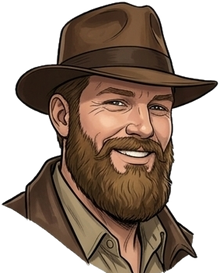
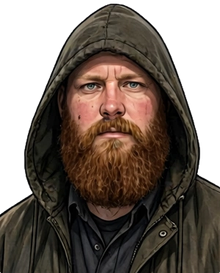
The Unfinished Journal: hero redrawn as The Archivist (hooded, Carter's face)
The painted fedora-and-leather-jacket explorer is replaced by parts cut from
Carter's approved hooded character sheet (art-source/archivist/, cut.py):
long charcoal-olive coat, hood up, scroll case on the back, boots. The face is
the sheet's own pixels, never redrawn. Story-card portraits come from the
sheet's front view; the sheet has one expression, so no smile is invented.
Raised-arm sleeve and hand now match the coat (sizes from the manifest).
Parts ship at half the sheet's resolution; cache version bumped to v=2.
Set pieces (whip, boulder) are unchanged and come in part 2.

Claude-Session: https://claude.ai/code/session_01FAAo7XY473oywLFz3iKTjM

diff --git a/docs/assets/games/treasure.js b/docs/assets/games/treasure.js
@@ -38,16 +38,16 @@
 
   var SCRIPT_DIR = (document.currentScript && document.currentScript.src.replace(/[^/]*$/, "")) || "assets/games/";
   var DATA_URL = SCRIPT_DIR + "data/treasure.json";
-  // the explorer: painted cut-out parts sliced from the character turnaround sheet
-  // (art-source/tomb-robber/), hinged at hip and knee so the legs actually run and tuck.
+  // the hero, "The Archivist": painted cut-out parts sliced from Carter's approved hooded character sheet
+  // (art-source/archivist/, cut by cut.py), hinged at hip and knee so the legs actually run and tuck.
   var ART_BASE = SCRIPT_DIR + "art/treasure/";
   var ART = { ready: false, man: null, img: {} };
   function loadArt() {
     if (ART.man) return;
     ART.man = {};
-    fetch(ART_BASE + "manifest.json?v=1").then(function (r) { return r.ok ? r.json() : null; }).then(function (m) {
+    fetch(ART_BASE + "manifest.json?v=2").then(function (r) { return r.ok ? r.json() : null; }).then(function (m) {
       if (!m) return; var names = ["body", "thigh", "shin"], left = names.length;
-      names.forEach(function (n) { var im = new Image(); im.onload = function () { ART.img[n] = im; if (--left === 0) { ART.man = m; ART.ready = true; } }; im.src = ART_BASE + n + ".png?v=1"; });
+      names.forEach(function (n) { var im = new Image(); im.onload = function () { ART.img[n] = im; if (--left === 0) { ART.man = m; ART.ready = true; } }; im.src = ART_BASE + n + ".png?v=2"; });
     }).catch(function () {});
   }
   var DATA = null, loadingPromise = null;
@@ -1486,15 +1486,16 @@
       leg(tB, kB, true);   // back leg recedes: a darkened copy made once (speed fix #4; a per-frame filter was costly)
       leg(tF, kF);
       cx.drawImage(I.body, -M.body.pivotX, -M.body.pivotY);
-      // the whip arm: a raised sleeve and fist while lashing or holding the rope
+      // the line arm: a raised coat sleeve and hand while casting or holding the rope (sizes from the manifest)
       var hand = null;
       if (p.whip || p.swing) {
-        var sh = { x: 12, y: -228 }, a = p.swing ? -1.75 : (p.whip.up ? -1.35 : -0.25 - (p.whip.t < 0.1 ? 1.1 * (1 - p.whip.t / 0.1) : 0));
-        var hx = sh.x + Math.cos(a) * 150, hy = sh.y + Math.sin(a) * 150;
-        cx.strokeStyle = "#3e2616"; cx.lineWidth = 50; cx.lineCap = "round"; cx.beginPath(); cx.moveTo(sh.x, sh.y); cx.lineTo(hx, hy); cx.stroke();
-        cx.strokeStyle = "#6a4428"; cx.lineWidth = 32; cx.beginPath(); cx.moveTo(sh.x, sh.y - 8); cx.lineTo(hx, hy - 8); cx.stroke();
-        cx.fillStyle = "#d9a57c"; cx.beginPath(); cx.arc(hx + Math.cos(a) * 20, hy + Math.sin(a) * 20, 24, 0, 7); cx.fill();
-        var m = cx.getTransform(), hp = new DOMPoint(hx + Math.cos(a) * 24, hy + Math.sin(a) * 24).matrixTransform(m);
+        var A = M.arm || { x: 12, y: -228, len: 150, w: 50, sleeve: "#3e2616", sleeveLight: "#6a4428", hand: "#d9a57c" }, u = M.figH / 662;
+        var sh = { x: A.x, y: A.y }, a = p.swing ? -1.75 : (p.whip.up ? -1.35 : -0.25 - (p.whip.t < 0.1 ? 1.1 * (1 - p.whip.t / 0.1) : 0));
+        var hx = sh.x + Math.cos(a) * A.len, hy = sh.y + Math.sin(a) * A.len;
+        cx.strokeStyle = A.sleeve; cx.lineWidth = A.w; cx.lineCap = "round"; cx.beginPath(); cx.moveTo(sh.x, sh.y); cx.lineTo(hx, hy); cx.stroke();
+        cx.strokeStyle = A.sleeveLight; cx.lineWidth = A.w * 0.64; cx.beginPath(); cx.moveTo(sh.x, sh.y - 8 * u); cx.lineTo(hx, hy - 8 * u); cx.stroke();
+        cx.fillStyle = A.hand; cx.beginPath(); cx.arc(hx + Math.cos(a) * 20 * u, hy + Math.sin(a) * 20 * u, 24 * u, 0, 7); cx.fill();
+        var m = cx.getTransform(), hp = new DOMPoint(hx + Math.cos(a) * 24 * u, hy + Math.sin(a) * 24 * u).matrixTransform(m);
         hand = { x: hp.x / DPR + st.drawCam, y: hp.y / DPR - st.drawCamY };
       }
       p.hand = hand;
@@ -1505,9 +1506,9 @@
       var leg = p.onGround && Math.abs(p.vx) > 0.4 ? Math.sin(p.run) * 4 : 0;
       cx.strokeStyle = "#2a1c10"; cx.lineWidth = 4; cx.lineCap = "round";
       cx.beginPath(); cx.moveTo(-1, 4); cx.lineTo(-3, 11 + leg); cx.moveTo(1, 4); cx.lineTo(3, 11 - leg); cx.stroke();
-      cx.fillStyle = "#6a4428"; cx.fillRect(-6, -6, 12, 12);
-      cx.fillStyle = "#d8ab6e"; cx.beginPath(); cx.arc(0, -11, 5, 0, 7); cx.fill();
-      cx.fillStyle = "#5a3a1a"; cx.beginPath(); cx.ellipse(0, -14, 8, 3, 0, 0, 7); cx.fill(); cx.fillRect(-4, -16, 8, 3);
+      cx.fillStyle = "#2b2b23"; cx.fillRect(-6, -6, 12, 14);                         // long coat
+      cx.fillStyle = "#2b2b23"; cx.beginPath(); cx.arc(0, -11, 6.5, 0, 7); cx.fill();  // hood up
+      cx.fillStyle = "#d8ab6e"; cx.beginPath(); cx.arc(2, -10.5, 3.6, 0, 7); cx.fill(); // face in the hood
       cx.restore(); p.hand = null;
     }
     function drawWhip() {
@@ -1624,7 +1625,7 @@
       return '<ul class="ouro-facts">' + items + "</ul>";
     }
     function portrait(smile) {
-      return '<img class="tr-portrait" src="' + ART_BASE + (smile ? "portrait-smile" : "portrait") + '.png?v=1" alt="" width="220" height="273">';
+      return '<img class="tr-portrait" src="' + ART_BASE + (smile ? "portrait-smile" : "portrait") + '.png?v=2" alt="" width="220" height="273">';
     }
     function storyCard(opts) {
       stopLoop();

diff --git a/art-source/archivist/cut.py b/art-source/archivist/cut.py
@@ -1,0 +1,120 @@
+#!/usr/bin/env python3
+"""Cut The Unfinished Journal hero ("The Archivist") into the game's painted parts.
+
+Source: character-sheet-archivist-hooded.webp (approved by Carter 2026-10-21; face from his own selfie,
+hood up). Output: docs/assets/games/art/treasure/{body,thigh,shin,portrait,portrait-smile}.png + manifest.json.
+
+Run from the repo root:  python3 art-source/archivist/cut.py
+Needs Pillow, numpy, scipy. Re-running gives the same files.
+
+The side view (left figure on the sheet) faces left; the game's parts face right, so they are mirrored.
+Coordinates below are in sheet pixels. The hero's face is never redrawn: every pixel of it comes from the sheet.
+"""
+import json, os
+import numpy as np
+from PIL import Image
+from scipy import ndimage
+
+HERE = os.path.dirname(os.path.abspath(__file__))
+ROOT = os.path.abspath(os.path.join(HERE, "..", ".."))
+OUT = os.path.join(ROOT, "docs", "assets", "games", "art", "treasure")
+SHEET = Image.open(os.path.join(HERE, "character-sheet-archivist-hooded.webp")).convert("RGB")
+
+
+def cutout(box):
+    """Crop a box and make the paper and grid lines transparent: flood-fill light, grey pixels from the edge."""
+    im = SHEET.crop(box)
+    a = np.asarray(im).astype(int)
+    mx, mn = a.max(2), a.min(2)
+    light = (mn > 150) & (mx - mn < 28)                 # paper white and the grey grid; the figure is outlined in black
+    lab, _ = ndimage.label(light)
+    edge = set(np.unique(np.concatenate([lab[0], lab[-1], lab[:, 0], lab[:, -1]]))) - {0}
+    bg = np.isin(lab, list(edge))
+    fg = ndimage.binary_opening(~bg, iterations=1)     # drop stray grid specks
+    lab2, n = ndimage.label(fg)
+    if n > 1:                                           # keep only pieces of a useful size
+        sizes = ndimage.sum(fg, lab2, range(1, n + 1))
+        keep = [i + 1 for i, s in enumerate(sizes) if s > 400]
+        fg = np.isin(lab2, keep)
+    alpha = ndimage.gaussian_filter(fg.astype(float), 0.6)   # soft one-pixel edge
+    rgba = np.dstack([a, (np.clip(alpha, 0, 1) * 255)]).astype(np.uint8)
+    return rgba
+
+
+def save(rgba, name):
+    Image.fromarray(rgba).save(os.path.join(OUT, name + ".png"), optimize=True)
+
+
+# ---- side view: sheet box (100,400)-(400,1390); figure coordinates are relative to that box ----
+SIDE = (100, 400, 400, 1390)
+side = cutout(SIDE)
+H, W = side.shape[:2]
+ys, xs = np.nonzero(side[:, :, 3] > 128)
+top, sole = int(ys.min()), int(ys.max())
+HIP = (140, 490)        # under the coat, level with the wrist
+KNEE = (140, 712)       # just below the coat hem
+HEM = 686               # the coat ends here; the body part stops at it
+
+# body: hood to coat hem (arm, hand and the scroll case on the back included)
+body = side[top:HEM].copy()
+
+# shin: the near leg from the knee to the sole. Its boot is the lower one; the far leg's boot pokes out above-left,
+# so everything left of the near trouser above the near boot's laces is cleared.
+shin = side[KNEE[1]:sole + 1].copy()
+lace = 912 - KNEE[1]
+for r in range(lace + 11):                     # the near trouser's back edge slants from x 86 at the knee to 108 at the laces
+    shin[r, :int(86 + 22 * min(r, lace) / lace), 3] = 0
+# thigh: hidden under the coat almost all the time; made from the trouser just below the hem, stretched up to the hip
+strip = Image.fromarray(side[HEM + 2:KNEE[1] + 24, 84:200].copy())
+thigh = np.asarray(strip.resize((116, KNEE[1] + 24 - HIP[1]), Image.LANCZOS)).copy()
+
+def mirror(a):
+    return a[:, ::-1].copy()
+
+def trim(a):
+    """Trim fully transparent columns and rows; returns the array and the (x0, y0) removed."""
+    al = a[:, :, 3] > 8
+    yy, xx = np.nonzero(al)
+    x0, x1, y0, y1 = xx.min(), xx.max() + 1, yy.min(), yy.max() + 1
+    return a[y0:y1, x0:x1], int(x0), int(y0)
+
+# mirror so the hero faces right, then trim and record pivots in the trimmed images
+body_m, bx0, by0 = trim(mirror(body))
+shin_m, sx0, sy0 = trim(mirror(shin))
+thigh_m, tx0, ty0 = trim(mirror(thigh))
+hipX_m = W - 1 - HIP[0]
+kneeX_m = W - 1 - KNEE[0]
+# The hero is drawn about 36 px tall (up to ~170 device pixels on a sharp phone), so the parts ship at half the sheet's
+# resolution and every manifest number is in those half-size pixels.
+S = 0.5
+def half(a):
+    im = Image.fromarray(a)
+    return np.asarray(im.resize((max(1, round(im.width * S)), max(1, round(im.height * S))), Image.LANCZOS))
+body_h, thigh_h, shin_h = half(body_m), half(thigh_m), half(shin_m)
+save(body_h, "body"); save(thigh_h, "thigh"); save(shin_h, "shin")
+def r(v):
+    return round(v * S, 1)
+
+# the raised arm drawn while using the line or hanging from the rope: shoulder relative to the hip, in sheet pixels
+SHOULDER = (150, 236)
+manifest = {
+    "figH": r(sole - top),
+    "body": {"pivotX": r(hipX_m - bx0), "pivotY": r(HIP[1] - top - by0), "w": int(body_h.shape[1]), "h": int(body_h.shape[0])},
+    "thigh": {"pivotX": r(116 - 1 - 58 - tx0), "pivotY": r(0 - ty0), "w": int(thigh_h.shape[1]), "h": int(thigh_h.shape[0])},
+    "shin": {"pivotX": r(kneeX_m - sx0), "pivotY": r(0 - sy0), "w": int(shin_h.shape[1]), "h": int(shin_h.shape[0])},
+    "kneeFromHip": [r(-(KNEE[0] - HIP[0])), r(KNEE[1] - HIP[1])],
+    "footFromHip": r(sole - HIP[1]),
+    "arm": {"x": r(-(SHOULDER[0] - HIP[0])), "y": r(SHOULDER[1] - HIP[1]), "len": r(215), "w": r(62),
+            "sleeve": "#2b2b23", "sleeveLight": "#454436", "hand": "#c99878"},
+}
+with open(os.path.join(OUT, "manifest.json"), "w") as f:
+    json.dump(manifest, f, indent=1)
+
+# ---- portraits for the story cards: the front view's head and shoulders, hood up ----
+PORTRAIT = (520, 150, 820, 522)           # 300 x 372, the cards' 220 x 273 shape
+p = cutout(PORTRAIT)
+pim = Image.fromarray(p).resize((220, 273), Image.LANCZOS)
+pim.save(os.path.join(OUT, "portrait.png"), optimize=True)
+# The sheet has one expression only. No smile is invented: the "smile" card shows the same face.
+pim.save(os.path.join(OUT, "portrait-smile.png"), optimize=True)
+print(json.dumps(manifest))
